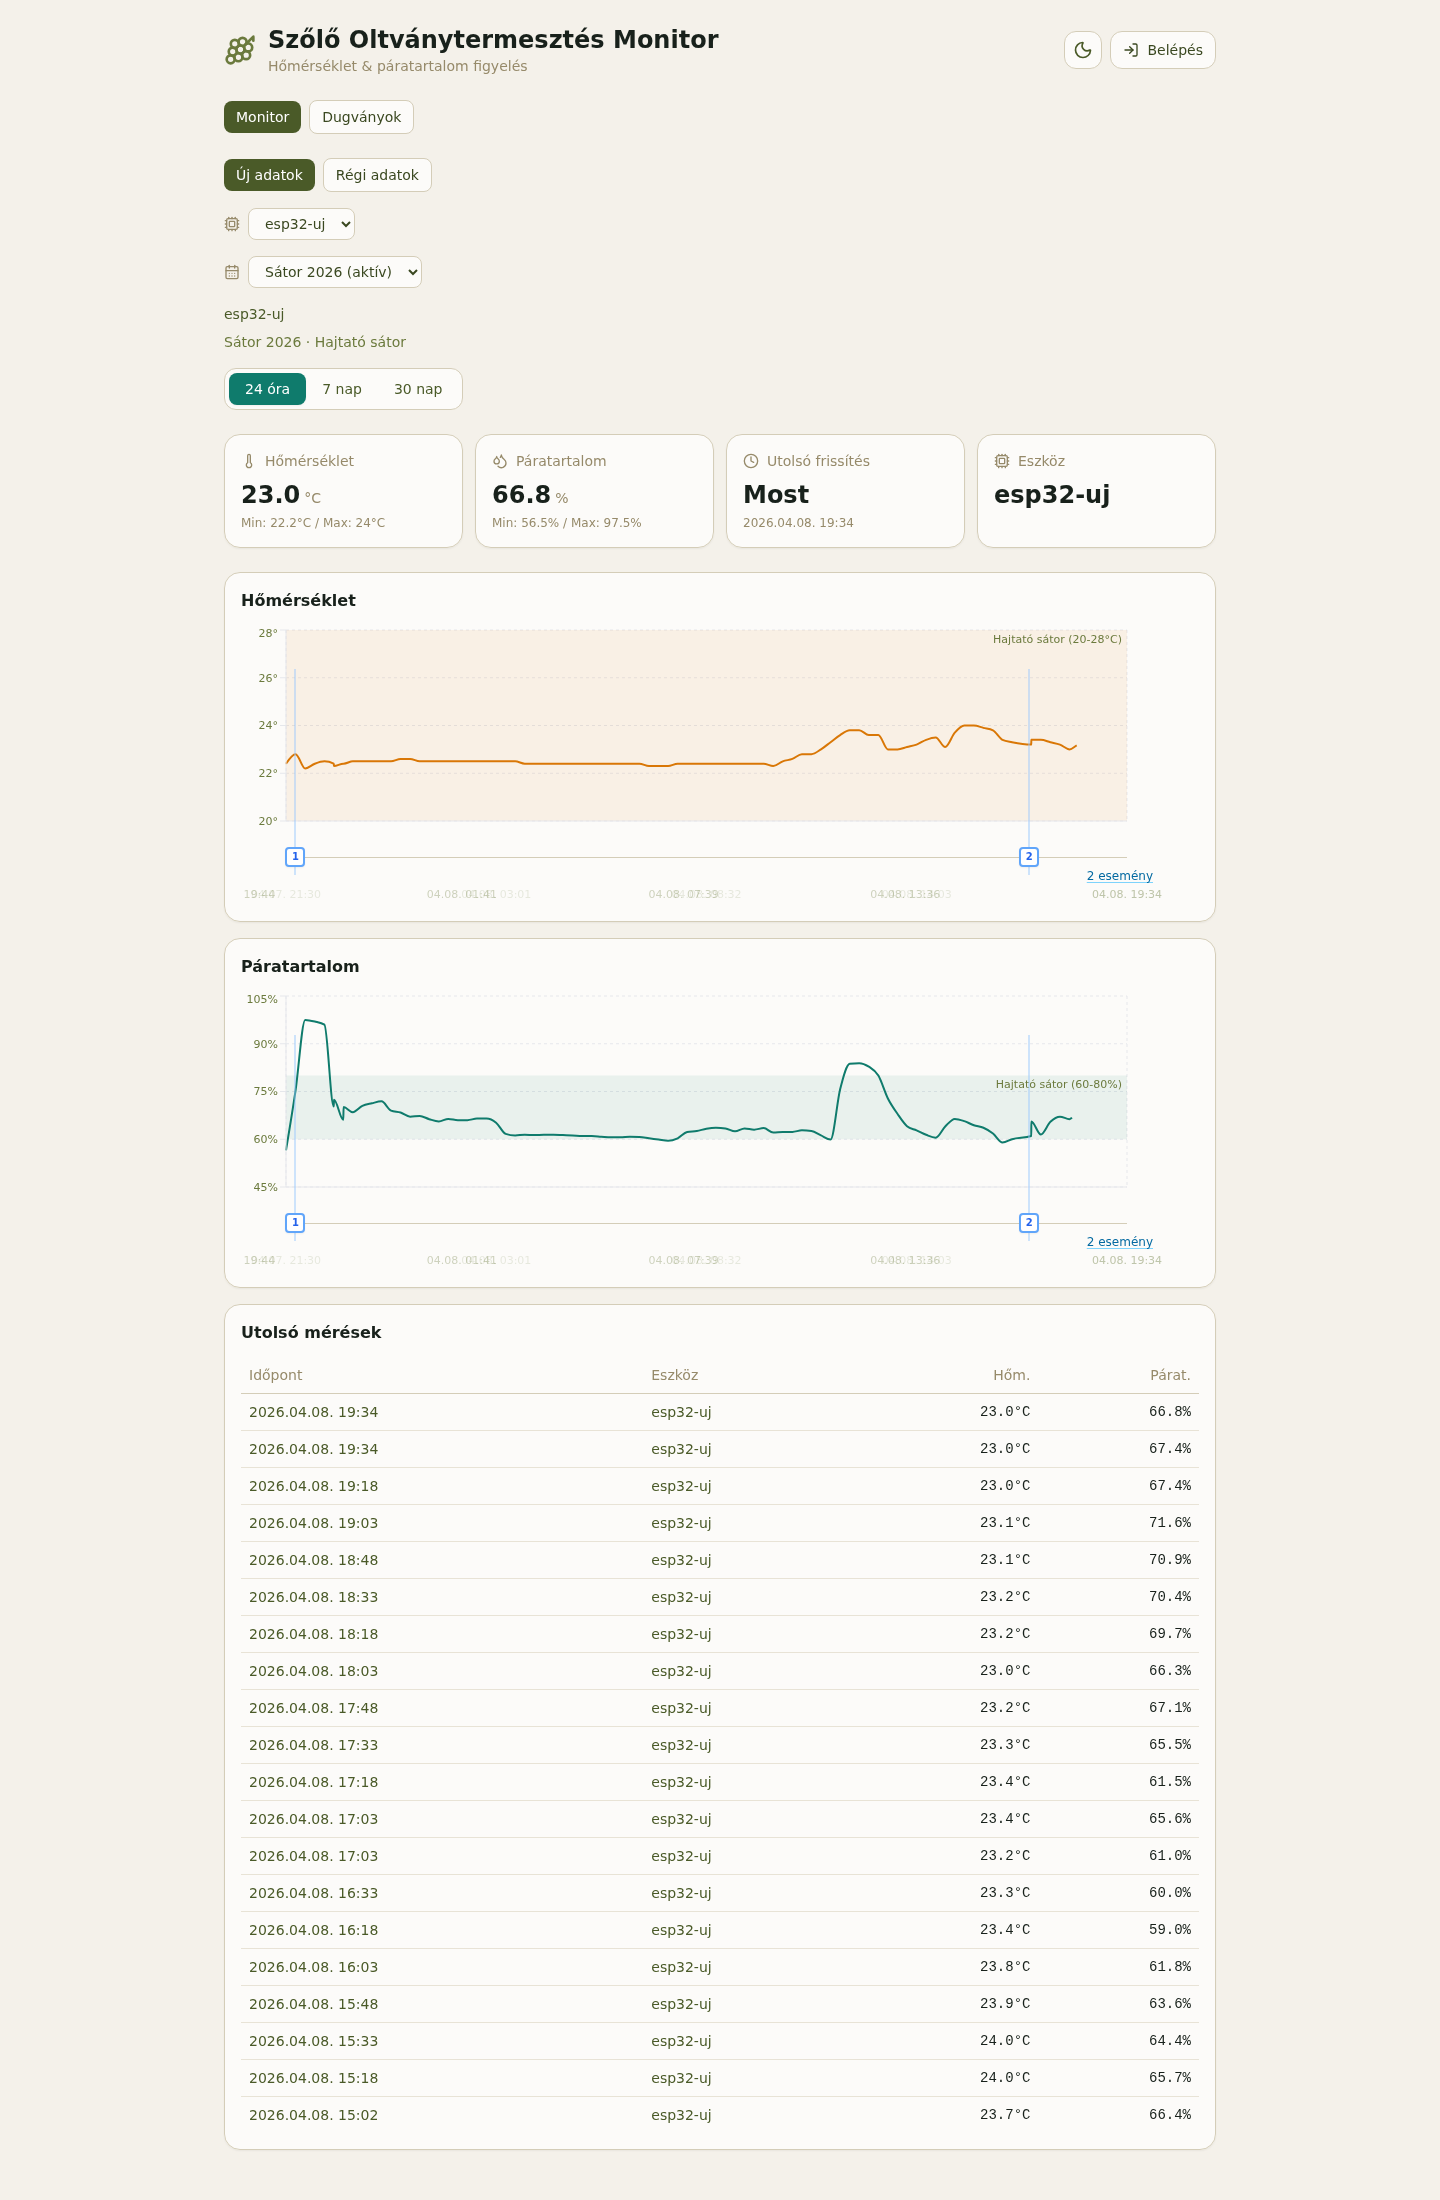
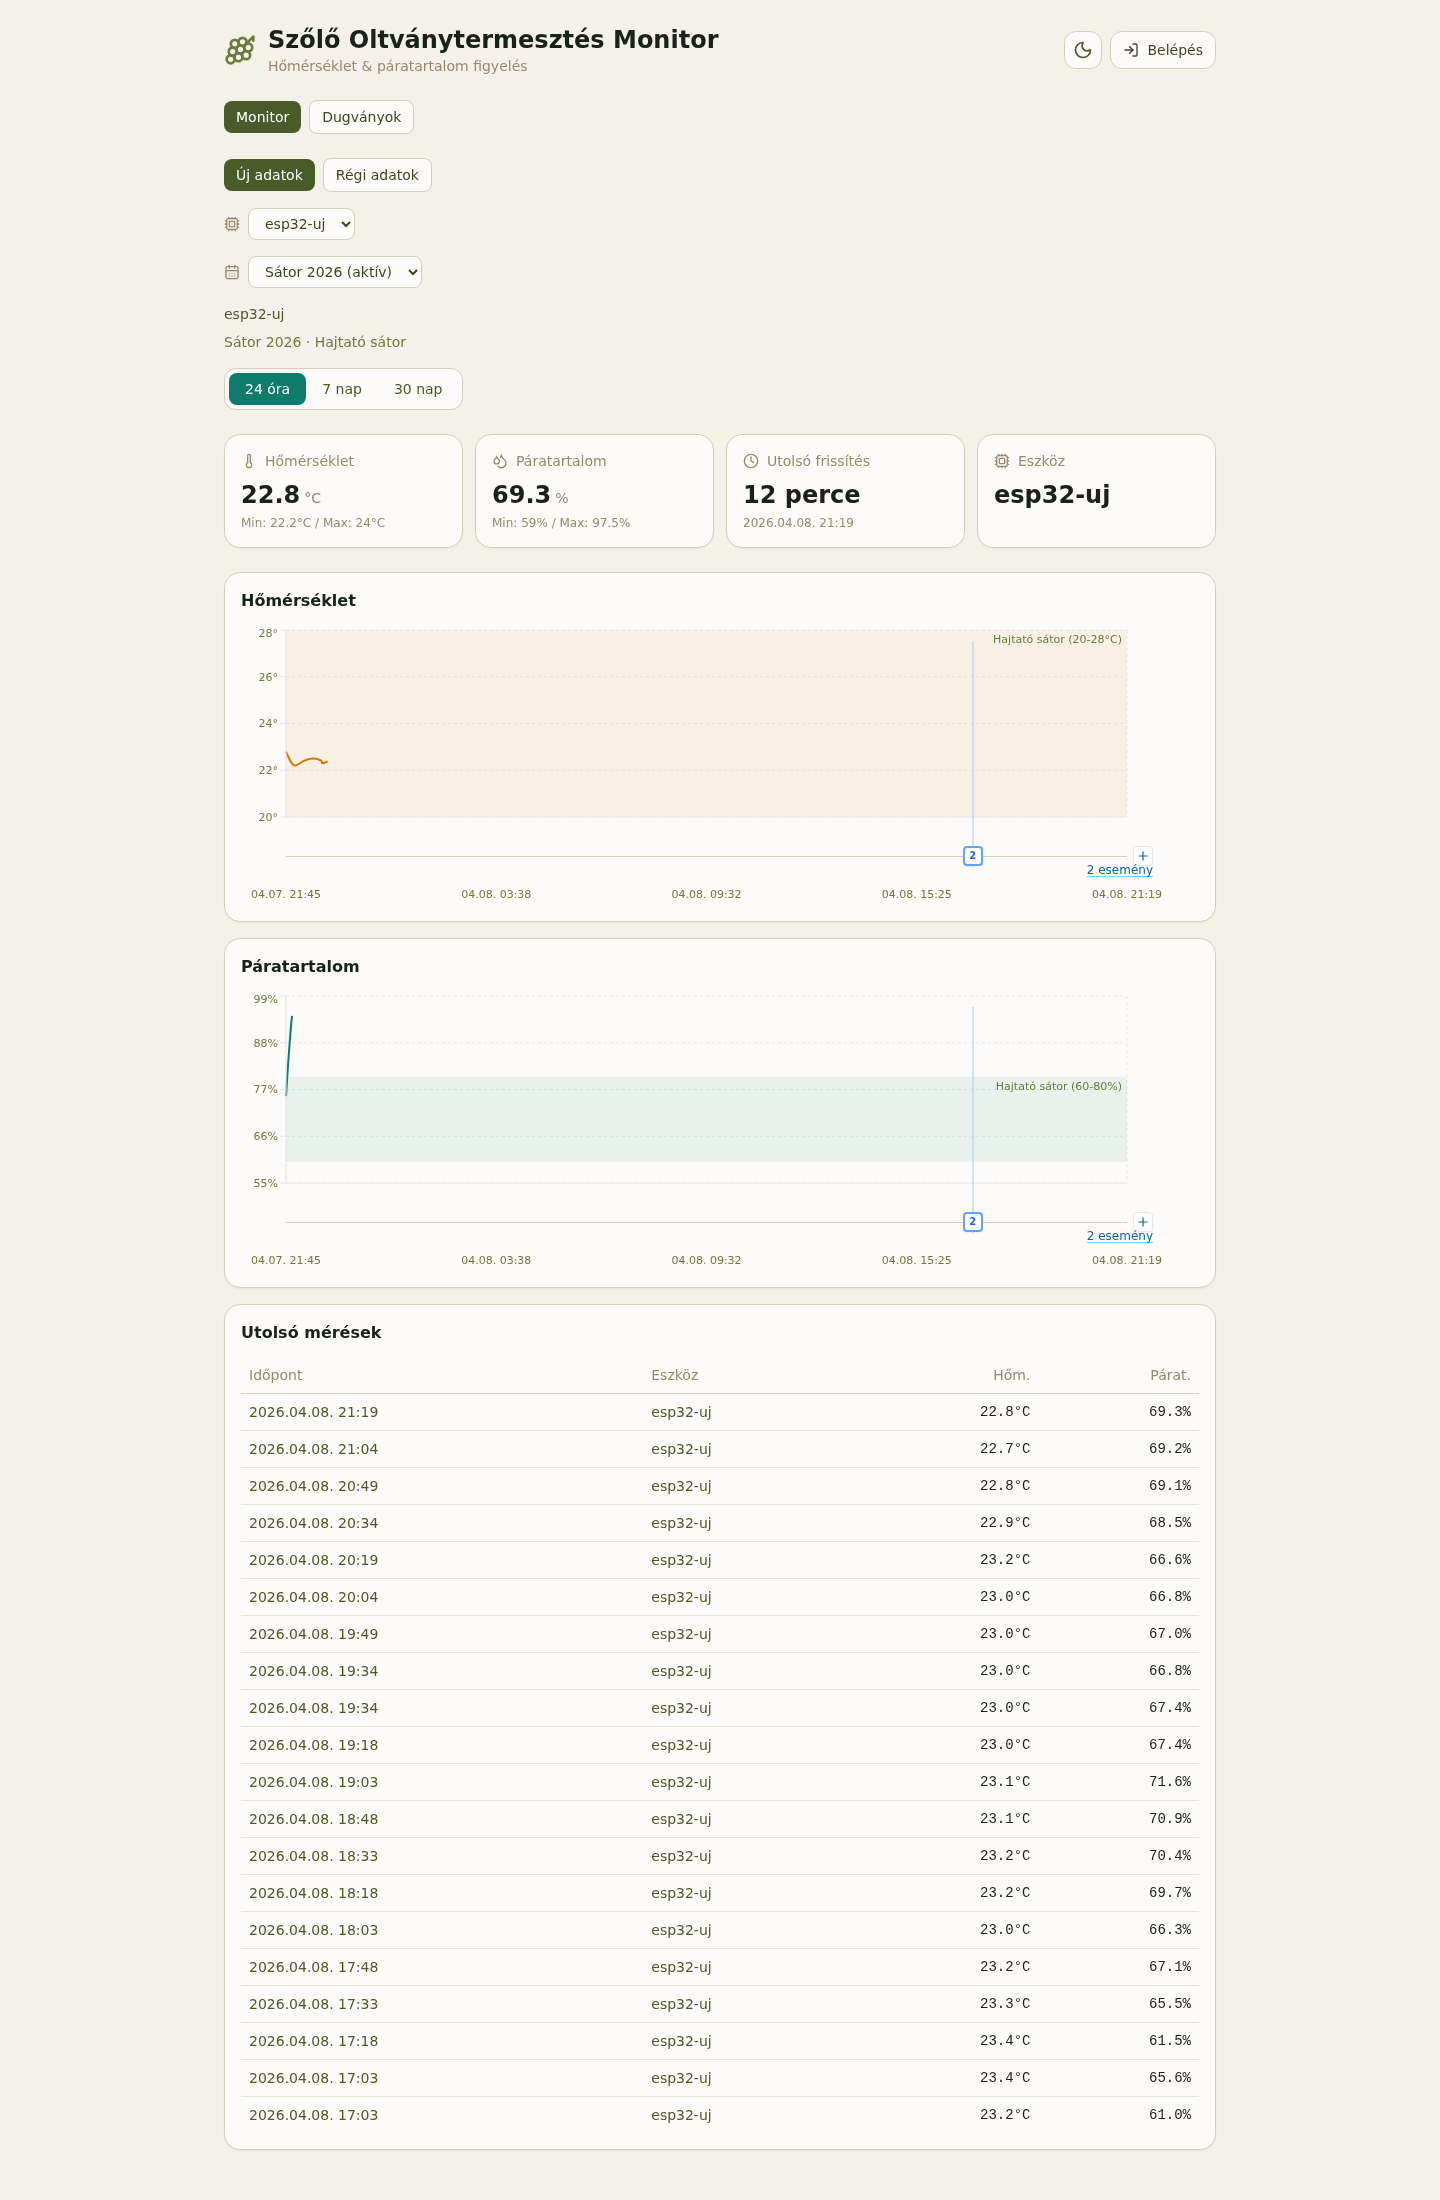
refactor events spacing

diff --git a/dashboard/src/components/EventTimelineRow.tsx b/dashboard/src/components/EventTimelineRow.tsx
@@ -1,5 +1,10 @@
 import { useMemo, useState } from 'react';
 import { Plus } from 'lucide-react';
+import {
+  eventMarkerCenterY,
+  eventTimelineRowBottom,
+  eventTimelineRowHeight,
+} from '../constants/chartLayout';
 import { formatDateTime } from '../lib/dateFormat';
 import { buildSessionEventTimelinePoints } from '../lib/sessionEventTimeline';
 import type { SessionEvent } from '../types/sensor';
@@ -61,8 +66,10 @@ export function EventTimelineRow({
 
   return (
     <div
-      className="absolute inset-x-0 bottom-4 h-10"
+      className="absolute inset-x-0"
       style={{
+        bottom: eventTimelineRowBottom,
+        height: eventTimelineRowHeight,
         pointerEvents:
           canQuickCreateEvent || timelinePoints.length > 0 || !!eventCountLabel || !!errorMessage
             ? 'auto'
@@ -74,7 +81,7 @@ export function EventTimelineRow({
         style={{
           left: plotLeft,
           width: plotWidth,
-          top: 8,
+          top: eventMarkerCenterY,
         }}
       />
 
@@ -83,7 +90,7 @@ export function EventTimelineRow({
           type="button"
           onClick={onQuickCreateNow}
           className="absolute flex h-5 w-5 -translate-x-1/2 -translate-y-1/2 items-center justify-center rounded-[4px] border bg-white text-sky-700 shadow-sm transition-colors hover:bg-sky-50 dark:bg-vine-900 dark:text-sky-300 dark:hover:bg-vine-800"
-          style={{ left: quickCreateLeft, top: 8 }}
+          style={{ left: quickCreateLeft, top: eventMarkerCenterY }}
           aria-label="Új esemény az aktuális időponthoz"
         >
           <Plus className="h-3.5 w-3.5" />
@@ -99,7 +106,7 @@ export function EventTimelineRow({
               className="absolute w-px -translate-x-1/2"
               style={{
                 left,
-                bottom: 14,
+                bottom: eventTimelineRowHeight - eventMarkerCenterY,
                 height: lineHeight,
                 backgroundColor: isDark ? '#7dd3fc' : '#93c5fd',
                 opacity: 0.9,
@@ -117,7 +124,7 @@ export function EventTimelineRow({
               className="absolute z-10 flex h-[20px] w-[20px] -translate-x-1/2 -translate-y-1/2 cursor-pointer items-center justify-center rounded-[4px] border-2 border-white text-[10px] font-semibold leading-none shadow-sm transition-transform hover:scale-110 focus:scale-110 dark:border-vine-900"
               style={{
                 left,
-                top: 8,
+                top: eventMarkerCenterY,
                 backgroundColor: '#ffffff',
                 borderColor: isDark ? '#7dd3fc' : '#60a5fa',
                 color: isDark ? '#7dd3fc' : '#2563eb',
@@ -152,8 +159,11 @@ export function EventTimelineRow({
 
       {(eventCountLabel || errorMessage) && (
         <div
-          className="absolute bottom-[5px] flex min-h-4 items-end"
-          style={{ right: `calc(100% - ${quickCreateRight}px)` }}
+          className="absolute flex min-h-4 items-end"
+          style={{
+            right: `calc(100% - ${quickCreateRight}px)`,
+            bottom: 0,
+          }}
         >
           <div className="flex flex-col items-end gap-1 text-xs">
             {eventCountLabel && onOpenEventList && (

diff --git a/dashboard/src/components/TemperatureChart.tsx b/dashboard/src/components/TemperatureChart.tsx
@@ -10,7 +10,11 @@ import {
   ReferenceArea,
 } from 'recharts';
 import { chartColors } from '../constants/chartColors';
-import { chartMargin, chartYAxisWidth } from '../constants/chartLayout';
+import {
+  chartHeight,
+  chartMargin,
+  chartYAxisWidth,
+} from '../constants/chartLayout';
 import { AnimatedTimeAxis } from './AnimatedTimeAxis';
 import { EventTimelineRow } from './EventTimelineRow';
 import { formatDateShort } from '../lib/dateFormat';
@@ -55,12 +59,13 @@ export function TemperatureChart({
 
   const gridColor = isDark ? chartColors.gridDark : chartColors.grid;
   const plotWidth = Math.max(0, chartWidth - chartYAxisWidth - chartMargin.right);
+  const eventLineHeight = chartHeight - chartMargin.top - chartMargin.bottom;
 
   return (
     <div className="bg-white/70 dark:bg-vine-800/70 backdrop-blur-sm rounded-2xl border border-vine-200 dark:border-vine-700 p-4 shadow-sm mb-4">
       <h2 className="mb-3 text-base font-semibold text-vine-900 dark:text-vine-50">Hőmérséklet</h2>
       <div ref={chartRef} className="relative">
-        <ResponsiveContainer width="100%" height={280}>
+        <ResponsiveContainer width="100%" height={chartHeight}>
           <LineChart data={data} margin={chartMargin}>
           <CartesianGrid strokeDasharray="3 3" stroke={gridColor} />
           {sessionType && (
@@ -124,7 +129,7 @@ export function TemperatureChart({
           isDark={isDark}
           plotLeft={chartYAxisWidth}
           plotWidth={plotWidth}
-          lineHeight={206}
+          lineHeight={eventLineHeight}
           onEventSelect={onEventSelect}
           canQuickCreateEvent={canQuickCreateEvent}
           onQuickCreateNow={onQuickCreateNow}

diff --git a/dashboard/src/components/HumidityChart.tsx b/dashboard/src/components/HumidityChart.tsx
@@ -10,7 +10,11 @@ import {
   ReferenceArea,
 } from 'recharts';
 import { chartColors } from '../constants/chartColors';
-import { chartMargin, chartYAxisWidth } from '../constants/chartLayout';
+import {
+  chartHeight,
+  chartMargin,
+  chartYAxisWidth,
+} from '../constants/chartLayout';
 import { AnimatedTimeAxis } from './AnimatedTimeAxis';
 import { EventTimelineRow } from './EventTimelineRow';
 import { formatDateShort } from '../lib/dateFormat';
@@ -59,12 +63,13 @@ export function HumidityChart({
 
   const gridColor = isDark ? chartColors.gridDark : chartColors.grid;
   const plotWidth = Math.max(0, chartWidth - chartYAxisWidth - chartMargin.right);
+  const eventLineHeight = chartHeight - chartMargin.top - chartMargin.bottom;
 
   return (
     <div className="bg-white/70 dark:bg-vine-800/70 backdrop-blur-sm rounded-2xl border border-vine-200 dark:border-vine-700 p-4 shadow-sm mb-4">
       <h2 className="mb-3 text-base font-semibold text-vine-900 dark:text-vine-50">Páratartalom</h2>
       <div ref={chartRef} className="relative">
-        <ResponsiveContainer width="100%" height={280}>
+        <ResponsiveContainer width="100%" height={chartHeight}>
           <LineChart data={data} margin={chartMargin}>
           <CartesianGrid strokeDasharray="3 3" stroke={gridColor} />
           {sessionType && (
@@ -128,7 +133,7 @@ export function HumidityChart({
           isDark={isDark}
           plotLeft={chartYAxisWidth}
           plotWidth={plotWidth}
-          lineHeight={206}
+          lineHeight={eventLineHeight}
           onEventSelect={onEventSelect}
           canQuickCreateEvent={canQuickCreateEvent}
           onQuickCreateNow={onQuickCreateNow}

diff --git a/dashboard/src/constants/chartLayout.ts b/dashboard/src/constants/chartLayout.ts
@@ -1,8 +1,16 @@
+export const chartHeight = 280;
+export const timeAxisHeight = 16;
+export const timeAxisGap = 4;
+
 export const chartMargin = {
   top: 5,
   right: 72,
   left: 0,
-  bottom: 54,
+  bottom: 58,
 } as const;
 
 export const chartYAxisWidth = 45;
+
+export const eventTimelineRowBottom = 28;
+export const eventTimelineRowHeight = 36;
+export const eventMarkerCenterY = 6;

diff --git a/AGENTS.md b/AGENTS.md
@@ -18,3 +18,13 @@ Examples:
 - `Futtasd: cd dashboard && npm run dev`
 - `Csináld meg: dugd vissza az ESP32-t USB-re`
 - `Nincs teendőd. Megyek tovább.`
+
+## UI Debug Rule
+
+When adjusting UI layout, spacing, alignment, visibility, or interaction states:
+
+- do not keep iterating blindly on pixel values without reproducing the exact visible state first
+- if the issue depends on auth state, admin state, viewport, or data presence, reproduce that same state before changing code
+- prefer checking the DOM and taking screenshots after each meaningful change
+- change one thing at a time when possible, instead of mixing multiple hypotheses in one edit
+- if repeated small tweaks do not converge, stop tweaking and re-check the actual rendered structure before continuing
